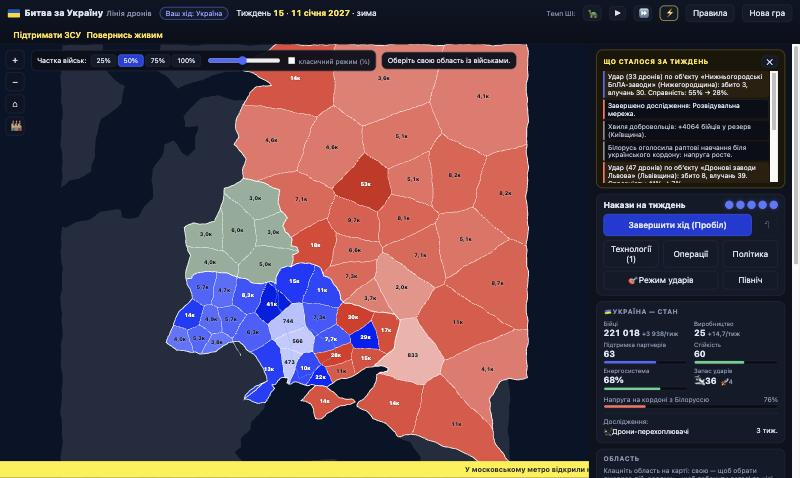
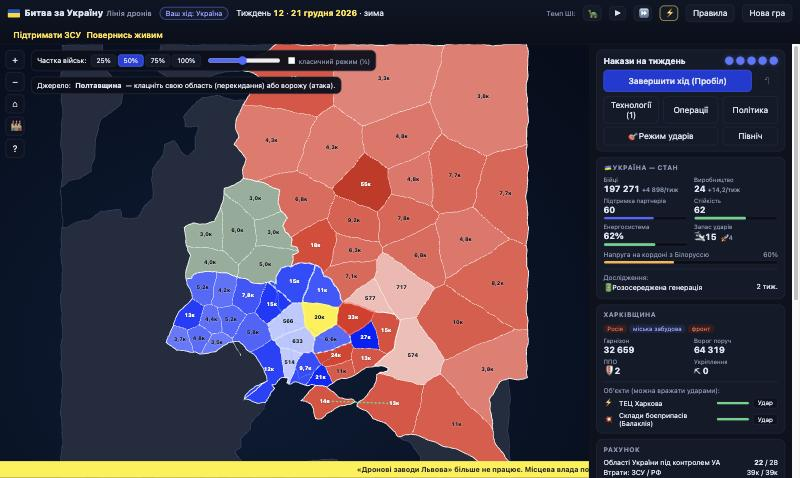
Полірування: кнопка «Як грати», повернення до нової гри після правил, оновлений скриншот

diff --git a/src/ui/modals.ts b/src/ui/modals.ts
@@ -31,14 +31,16 @@ interface Current {
 export class Modals {
   private root: HTMLElement;
   private cur: Current | null = null;
+  /** Викликається, коли користувач сам закрив вікно (Esc, фон, ✕) — не при програмному закритті. */
+  onUserClose: (() => void) | null = null;
 
   constructor(root: HTMLElement) {
     this.root = root;
     document.addEventListener('keydown', (e) => {
-      if (e.key === 'Escape' && this.cur?.closable) this.close();
+      if (e.key === 'Escape' && this.cur?.closable) this.userClose();
     });
     this.root.addEventListener('mousedown', (e) => {
-      if ((e.target as HTMLElement).classList.contains('veil') && this.cur?.closable) this.close();
+      if ((e.target as HTMLElement).classList.contains('veil') && this.cur?.closable) this.userClose();
     });
   }
 
@@ -68,6 +70,11 @@ export class Modals {
   close(): void {
     this.cur = null;
     this.root.innerHTML = '';
+  }
+
+  userClose(): void {
+    this.close();
+    this.onUserClose?.();
   }
 }
 
@@ -359,7 +366,7 @@ export function newGameModal(store: GameStore, hasSave: boolean, opts: { first: 
     <div class="field"><label>Зерно випадковості (необов’язково — для відтворюваних партій)</label>
       <input id="ng-seed" type="text" placeholder="випадкове" style="padding:8px;border-radius:8px;border:1px solid var(--line);background:#0a0e18;color:inherit"></div>
     <div class="row" style="margin-top:12px;gap:10px;flex-wrap:wrap">
-      <span>${hasSave ? '<button class="tbtn big" data-act="continue">Продовжити збережену</button>' : ''}</span>
+      <span>${hasSave ? '<button class="tbtn big" data-act="continue">Продовжити збережену</button> ' : ''}<button class="tbtn big" data-act="rules">Як грати</button></span>
       <span>${opts.first ? '' : '<button class="tbtn big" data-act="close-modal">Скасувати</button> '}<button class="tbtn primary big" data-act="ng-start">Почати гру</button></span>
     </div>`;
 }

diff --git a/src/ui/style.css b/src/ui/style.css
@@ -43,7 +43,7 @@ a { color: var(--ua-soft); }
 
 /* ---------- макет ---------- */
 #layout { flex: 1; display: flex; min-height: 0; }
-#mapwrap { position: relative; flex: 1; min-width: 0; background: var(--sea); overflow: hidden; }
+#mapwrap { position: relative; flex: 1; min-width: 0; background: radial-gradient(ellipse at 40% 70%, #0b1d38 0%, #071427 55%, #050d1a 100%); overflow: hidden; }
 #map { width: 100%; height: 100%; display: block; touch-action: none; cursor: grab; user-select: none; }
 #map.dragging { cursor: grabbing; }
 #side { width: 380px; max-width: 42vw; overflow-y: auto; background: var(--panel); border-left: 1px solid var(--line); padding: 10px 12px 24px; }
@@ -59,7 +59,7 @@ a { color: var(--ua-soft); }
 @keyframes dash { to { stroke-dashoffset: -24; } }
 @keyframes pulse { 50% { stroke-opacity: .45; } }
 .region.dim { opacity: .55; }
-.land { fill: var(--land); }
+.land { fill: var(--land); stroke: #39466b; stroke-width: 1; vector-effect: non-scaling-stroke; }
 .river { fill: none; stroke: #5fb8ff; stroke-opacity: .55; stroke-width: 1.4; stroke-linecap: round; pointer-events: none; }
 .lbl { pointer-events: none; font-weight: 800; text-anchor: middle; paint-order: stroke; font-size: var(--fs, 13px); font-variant-numeric: tabular-nums; }
 .lbl.dark { fill: #0a0d18; stroke: #ffffff55; stroke-width: 2px; }

diff --git a/src/main.ts b/src/main.ts
@@ -23,6 +23,10 @@ const $ = <T extends HTMLElement>(id: string): T => document.getElementById(id) 
 
 const store = new GameStore();
 const modals = new Modals($('modal-root'));
+// закрили правила до початку першої гри — повертаємо вікно нової гри, щоб не лишати порожній екран
+modals.onUserClose = () => {
+  if (!store.hasGame) openNewGame(true);
+};
 
 let mapView: MapView | null = null;
 let strikeArgs: StrikeArgs | null = null;
@@ -298,7 +302,7 @@ function handleAct(el: HTMLElement, type: string): void {
       openNewGame(false);
       break;
     case 'close-modal':
-      modals.close();
+      modals.userClose();
       break;
     case 'strike-mode':
       store.mode = store.mode === 'strike' ? 'normal' : 'strike';
